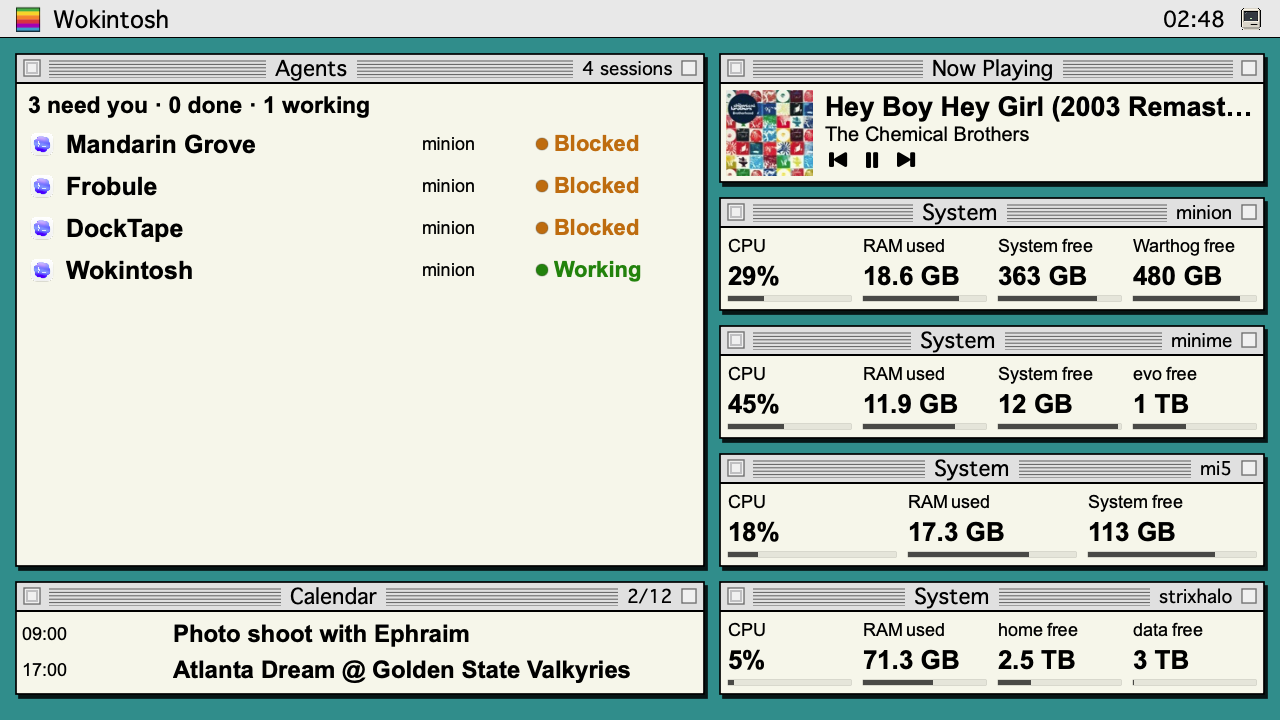
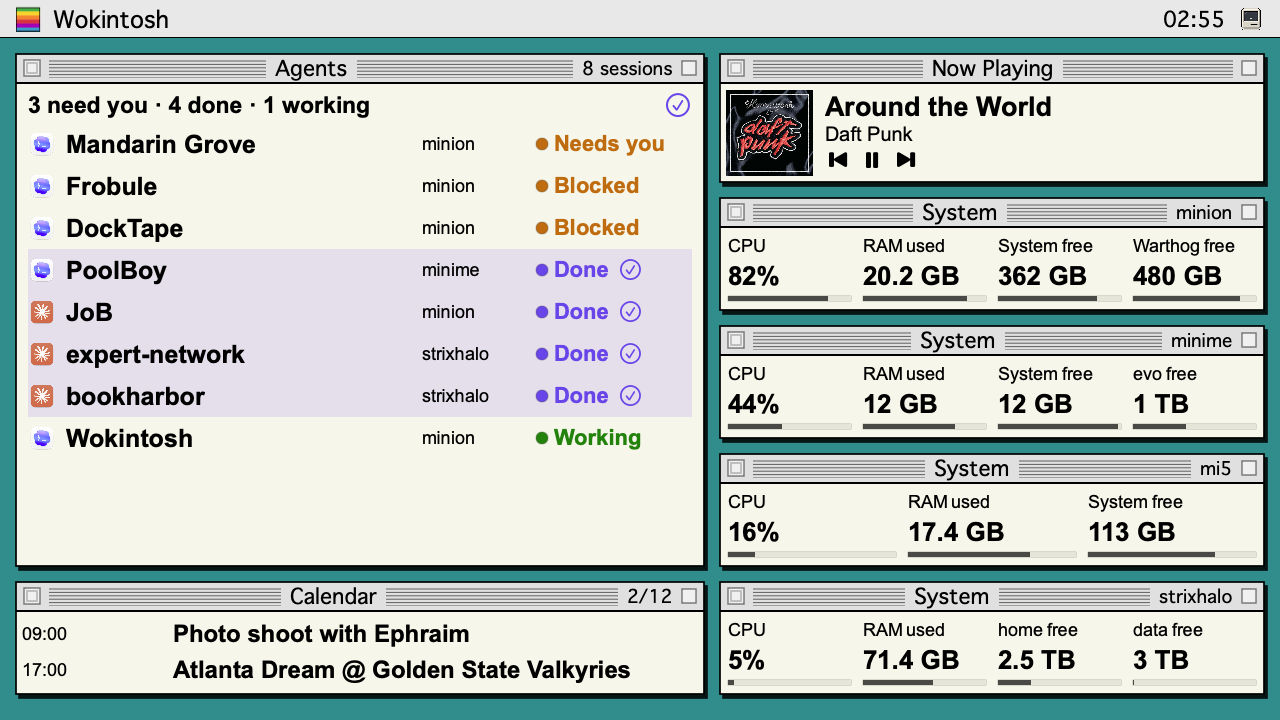
Illustrate cross-machine Codex and Claude sessions in README

diff --git a/README.md b/README.md
@@ -4,9 +4,9 @@ Download the signed and notarized macOS app from [GitHub Releases](https://githu
 
 A Color Classic-style dashboard for a small Mac display. Arrange independently resizable widgets for individual Codex and Claude Code sessions, Apple Music, system status, clock, weather, and calendar.
 
-![Wokintosh dashboard showing agent statuses, Apple Music artwork and controls, a two-event calendar agenda, and system readings from four machines](docs/images/dashboard.png)
+![Wokintosh dashboard showing eight Codex and Claude Code sessions across machines, attention and Done states with Review controls, Apple Music, a calendar agenda, and four machines’ system readings](docs/images/dashboard.png)
 
-One custom 1280 × 720 layout: agents needing attention on the left, music and four machines on the right, and the next two calendar events below. Widgets can be duplicated, resized and rearranged independently; each has its own content and click-action settings.
+One custom 1280 × 720 layout: Codex and Claude Code sessions across machines on the left, with attention and unreviewed Done work surfaced first; music and four machines on the right; and the next two calendar events below. Widgets can be duplicated, resized and rearranged independently; each has its own content and click-action settings.
 
 - **Keep track of agents:** Codex and Claude Code sessions from Macs and Linux machines, with attention first and explicit Done/Review and Blocked states.
 - **Make a personal dashboard:** music with color artwork and playback controls, filtered calendars, weather, clocks, and CPU, memory and drive readings.
